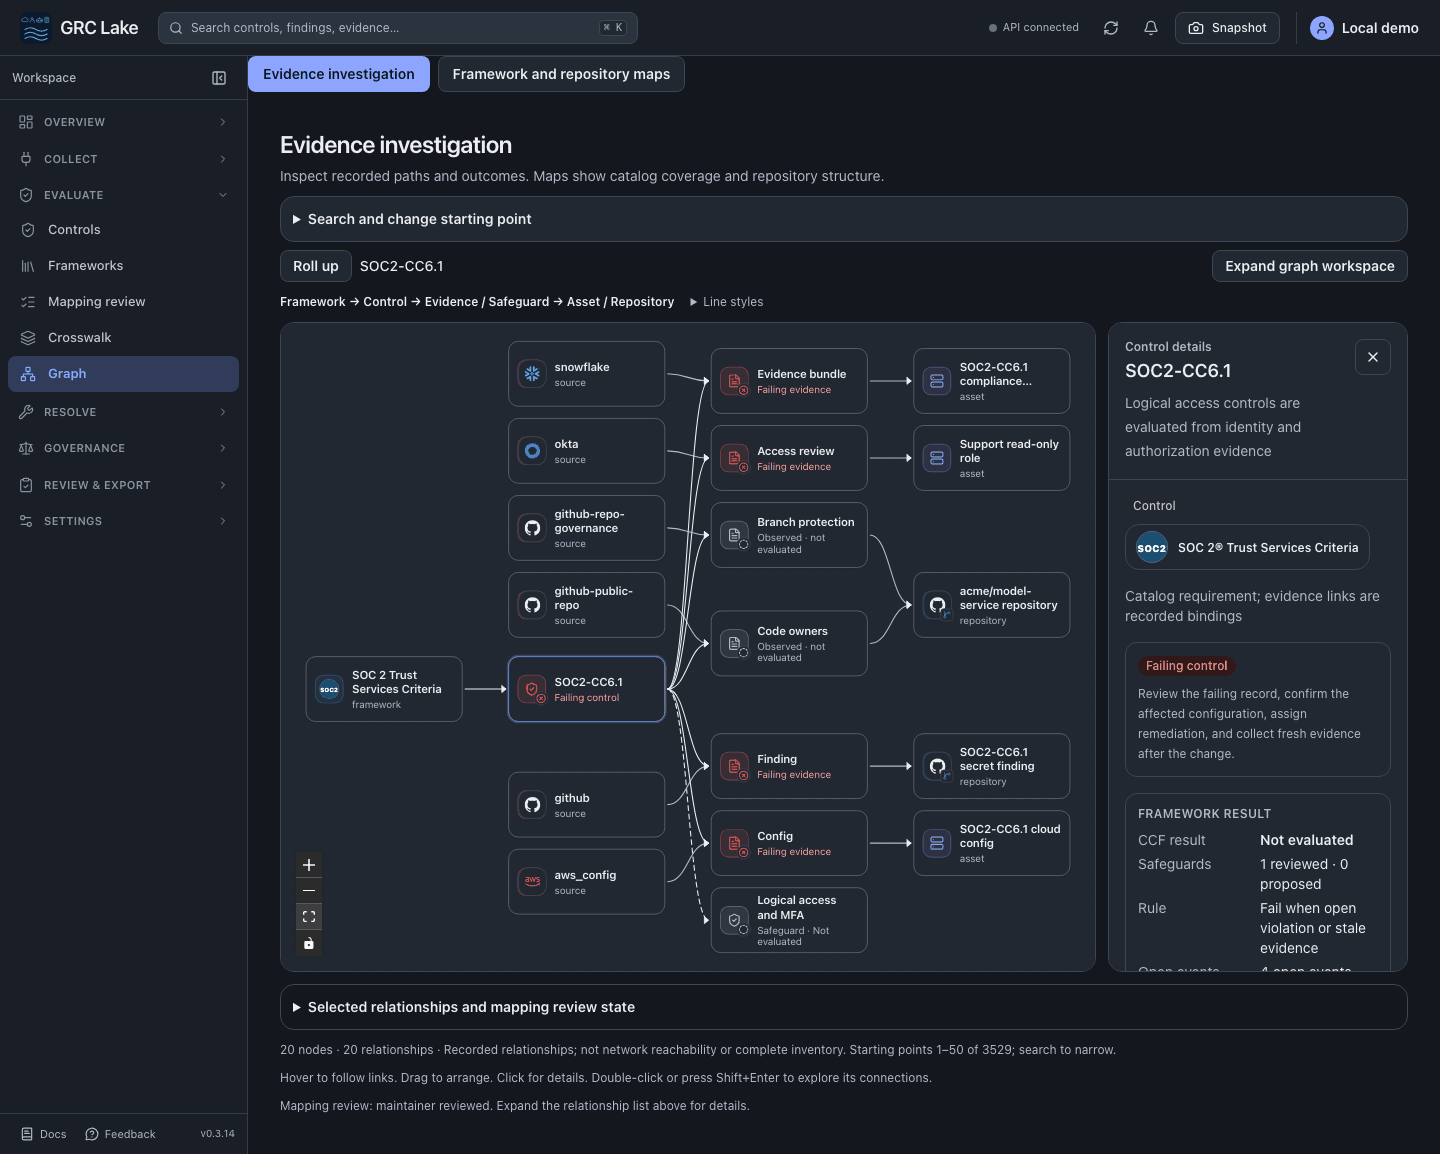
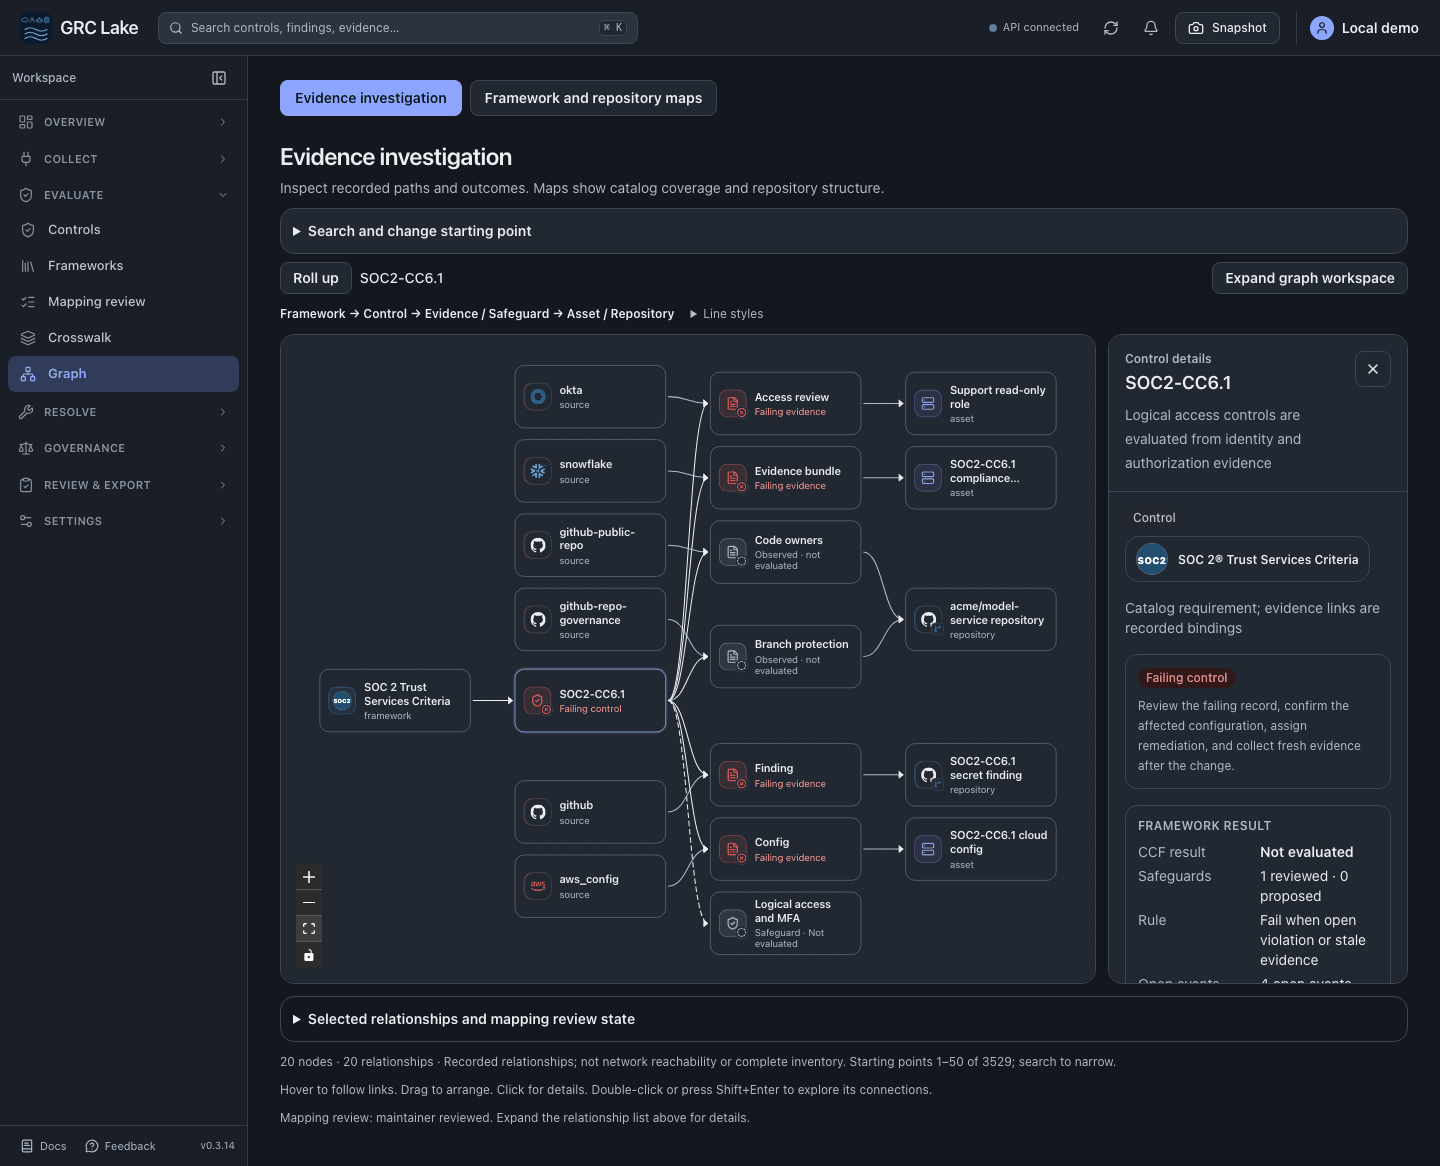
chore(release): polish CLI and graph and align 0.3.14 notes (#1070)
* feat(cli): show attested framework results in the assessment status summary

* fix(console): align graph workspace tabs with the page content

* docs(release): align 0.3.14 notes with the shipped accuracy, binding and CI changes

diff --git a/app/web/e2e/graph-scale-a11y.spec.ts b/app/web/e2e/graph-scale-a11y.spec.ts
@@ -330,3 +330,23 @@ test("starting points do not repeat their kind and empty layers are dimmed", asy
     Number(await empty.first().evaluate((el) => getComputedStyle(el).opacity)),
   ).toBeLessThan(1);
 });
+
+test("graph workspace tabs align with the page content instead of touching the top bar", async ({
+  page,
+}) => {
+  await page.setViewportSize({ width: 1440, height: 1000 });
+  await page.goto("/console/graph/");
+  const tabs = page.getByRole("group", { name: "Graph workspace" });
+  const heading = page.getByRole("heading", {
+    level: 1,
+    name: "Evidence investigation",
+  });
+  await expect(heading).toBeVisible();
+  const [tabBox, headingBox, mainBox] = [
+    await tabs.getByRole("button").first().boundingBox(),
+    await heading.boundingBox(),
+    await page.locator("main").first().boundingBox(),
+  ];
+  expect(Math.abs(tabBox!.x - headingBox!.x)).toBeLessThanOrEqual(1);
+  expect(tabBox!.y - mainBox!.y).toBeGreaterThanOrEqual(16);
+});

diff --git a/app/web/src/app/graph/page.tsx b/app/web/src/app/graph/page.tsx
@@ -219,7 +219,7 @@ function GraphWorkspace() {
   return (
     <div>
       <div
-        className="mb-3 flex flex-wrap gap-2"
+        className="mx-auto flex w-full max-w-[1600px] flex-wrap gap-2 px-4 pt-5 sm:px-5 lg:px-8 lg:pt-6"
         role="group"
         aria-label="Graph workspace"
       >

diff --git a/tests/test_cli_assessment_summary.py b/tests/test_cli_assessment_summary.py
@@ -49,7 +49,7 @@ def test_summary_reports_the_golden_assessment_counts(tmp_path, capsys) -> None:
         f"Evidence   {payload['evidence_freshness']['count']} records, {posture['stale_evidence_count']} stale/expired/missing"
         in output
     )
-    assert len(output.splitlines()) == 5
+    assert len(output.splitlines()) == 6
 
 
 @pytest.mark.parametrize("format_args", [[], ["--format", "json"]])
@@ -110,3 +110,18 @@ def test_failed_assessment_does_not_print_a_success_summary(monkeypatch, capsys,
     output = capsys.readouterr()
     assert output.out == ""
     assert output.err == "error: assessment unavailable\n"
+
+
+def test_summary_states_attested_framework_results_next_to_control_tests(tmp_path, capsys) -> None:
+    lake = tmp_path / "lake"
+    assert main(["fixtures", "load", "--company", "golden", "--out", str(lake), "--rebase-times"]) == 0
+    capsys.readouterr()
+    assert main(["assessment", "status", "--lake", str(lake), "--format", "summary"]) == 0
+    output = capsys.readouterr().out
+    ccf = json.loads((lake / "gold" / "ccf_assessment.json").read_text(encoding="utf-8"))
+    counts = {status: sum(r["status"] == status for r in ccf["requirements"]) for status in ("pass", "fail")}
+    not_assessed = len(ccf["requirements"]) - counts["pass"] - counts["fail"]
+    assert (
+        f"Framework  {counts['pass']} attested, {counts['fail']} failing, {not_assessed} not assessed "
+        "(CCF requirements through reviewed mappings)"
+    ) in output

diff --git a/src/security_lakehouse/cli.py b/src/security_lakehouse/cli.py
@@ -2007,9 +2007,15 @@ def _assessment_status(args: argparse.Namespace) -> int:
         raise ValueError("assessment lake directory does not exist")
     assessment = build_current_posture(args.lake, freshness_days=args.freshness_days)
     if args.format == "summary":
+        from security_lakehouse.ccf_requirement_results import load_requirement_results
+
         posture = assessment["posture"]
+        framework = [row["ccf_status"] for row in load_requirement_results(args.lake).values()]
+        attested, failing = framework.count("pass"), framework.count("fail")
         print(
             f"Posture    {posture['score']} / 100  {posture['state']}\n"
+            f"Framework  {attested} attested, {failing} failing, {len(framework) - attested - failing} not assessed "
+            "(CCF requirements through reviewed mappings)\n"
             f"Controls   {posture['control_count']} total, "
             f"{posture['not_evaluated_control_count']} not evaluated, {posture['stale_control_count']} stale\n"
             f"Tests      {posture['failed_control_test_count']} failing, "

diff --git a/tests/test_release_version_consistency.py b/tests/test_release_version_consistency.py
@@ -9,7 +9,7 @@ from pathlib import Path
 
 ROOT = Path(__file__).resolve().parents[1]
 RELEASE_VERSION = "0.3.14"
-RELEASE_DATE = "2026-10-25"
+RELEASE_DATE = "2026-10-26"
 
 
 def test_release_version_is_consistent_across_package_chart_and_console() -> None:

diff --git a/docs/RELEASE_READINESS.md b/docs/RELEASE_READINESS.md
@@ -72,10 +72,37 @@ coverage counts expandable. Desktop/mobile preview checks found no broken images
 or horizontal overflow at the inspected widths; these are layout checks, not a
 browser capacity qualification.
 
+Accuracy and value changes since the candidate was opened:
+
+- A control test is not an attestation anywhere it is reported. OSCAL
+  assessment results mark a finding `satisfied` only for a framework (CCF) pass
+  through reviewed mappings; the public trust summary adds attested counts and
+  reads `ready` only when every requirement is attested; the CLI status summary
+  adds an attested framework line. On the golden demo, OSCAL satisfied findings
+  equal the three attested requirements exactly.
+- Flagship connectors now bind evaluated evidence to safeguards inside the
+  connector: AWS IAM, GitHub change approval, Okta and Google Workspace MFA and
+  GCP organization policies. A live read-only pilot on one AWS account and this
+  repository moved from no framework results to 103 failing requirements and one
+  attested pass, each verified against the provider
+  ([receipt](qualification/live/2026-10-26-aws-github-binding.md)).
+- The maintainer approved 71 SOC 2 and ISO 27001 mappings as one recorded batch
+  decision (SOC 2 59/61, ISO 27001 53/93 reviewed; 1,225 reviewed requirements in
+  total). Title-theme suggestions and two requirements with open recommendations
+  stay proposed.
+- The golden demo reaches three honest attested ISO 27001 passes alongside its
+  failures and unattested control tests.
+- Databricks was re-run against a populated system audit log (928 records,
+  failed requests reconciled 16/16) and stays Preview
+  ([receipt](qualification/live/2026-10-25-databricks.md#databricks-populated-audit)).
+- Connector plugin discovery is cached per process, and CI balances six Python
+  shards by recorded time and splits console e2e in two; a full CI run fell from
+  15–18 to about 9 minutes.
+
 The [focused recovery/confidentiality packet](reviews/RECOVERY_CONFIDENTIALITY.md)
 records the additional evidence needed for SOC2-A1.3 and SOC2-C1.1. The
 maintainer's 2026-10-25 [batch decision](MAPPING_REVIEW.md#pending-soc-2-and-iso-review)
-approved both mappings without adopting those recommendations. Only an eligible
+excluded both, so they stay proposed until those recommendations are met. Only an eligible
 human reviewing the full requirement text can approve a mapping; code approval
 does not substitute for that decision.
 

diff --git a/CHANGELOG.md b/CHANGELOG.md
@@ -3,7 +3,9 @@
 All notable GRC Lake changes are summarized here. Versions follow semver for the
 Python package, Helm chart, and bundled web console.
 
-## 0.3.14 - 2026-10-25
+## 0.3.14 - 2026-10-26
+
+- `grc-lake assessment status --format summary` adds a framework line with attested, failing and not-assessed CCF requirements, matching the console and trust page. The graph workspace tabs now align with the page content instead of touching the top bar.
 
 - Record a live AWS and GitHub pilot before and after flagship safeguard binding: the same read-only collection moved from no framework results to 103 failing requirements from verified IAM findings and one attested pass from a verified branch-protection verdict.
 
